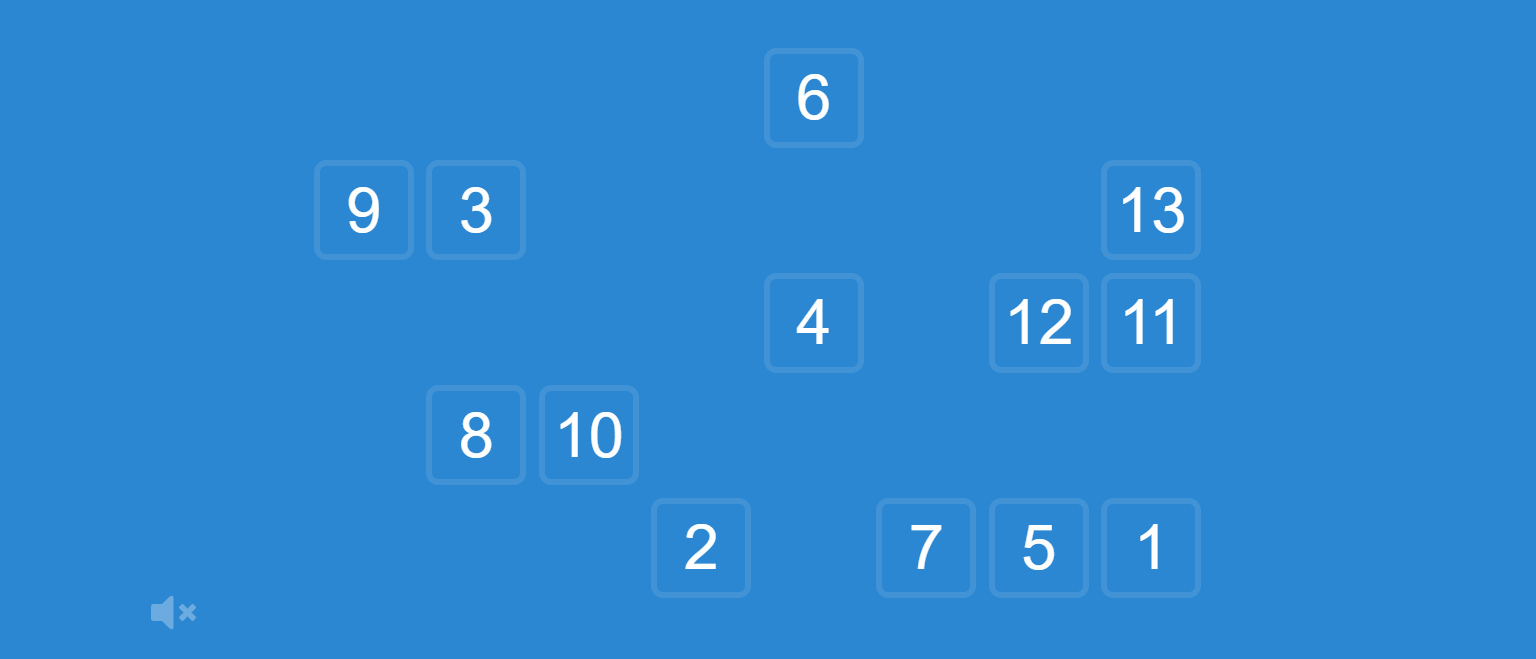
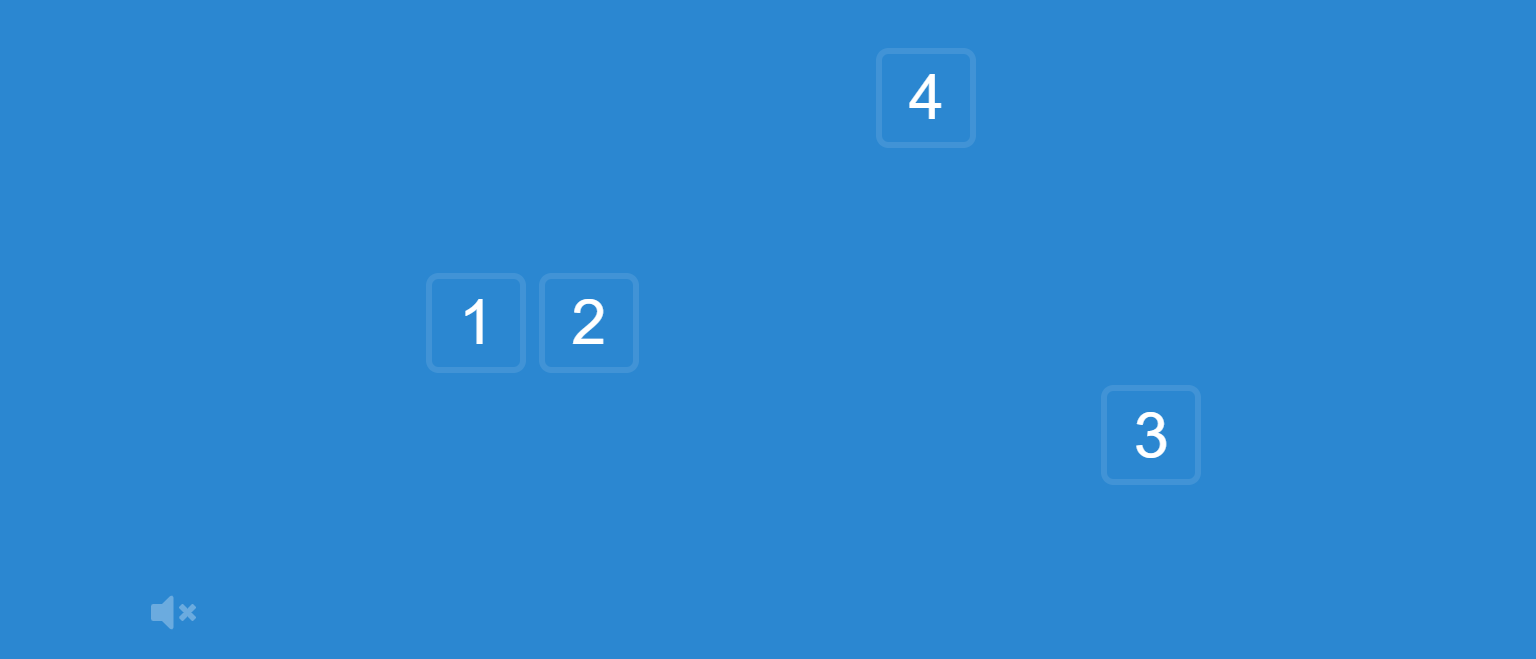
Chimp Test

diff --git a/Chimp Test/chimp.py b/Chimp Test/chimp.py
@@ -10,25 +10,33 @@ URL = "https://humanbenchmark.com/tests/chimp"
 MAX_LEVEL = 41
 
 BLUE = np.array([43, 135, 209])
-NUMBER_BORDER_COLOR = np.array([68, 152, 212])
-
 
 def open_human_benchmark():
     webbrowser.open(URL, 1, True)
     time.sleep(1)
 
 def start_game():
-    
     button_location = pyautogui.locateCenterOnScreen("StartButton.png", confidence=0.9)
-    for level in range(3, MAX_LEVEL):
-        time.sleep(0.5)
+    pyautogui.click(button_location)
+    game_size, x_border, y_border = determine_game_size()
+    screenshot = np.array(pyautogui.screenshot(region=game_size))
+    numbers = 0
+    numbers += remember_board(screenshot)
+    for level in range(4, MAX_LEVEL):
         pyautogui.click(button_location)
-        pyautogui.screenshot(f"level {level}.png")
-
-        positions = sorted(remember_board(), key=lambda x: x[0])
+        positions = []
+        screenshot = np.array(pyautogui.screenshot(region=game_size))
+        for i in range(1, numbers+1):
+            x, y, width, height = pyautogui.locateOnScreen(f"numbers/{i}.png", confidence=0.95)
+            positions.append((x+width//2, y+height//2))
+            screenshot[y-y_border-10:y-y_border+115, x-x_border-10:x-x_border+115] = BLUE
+        if(remember_board(screenshot)):
+            numbers+=1
+            x, y, width, height = pyautogui.locateOnScreen(f"numbers/{numbers}.png", confidence=0.95)
+            positions.append((x+width//2, y+height//2))
+        for pos in positions:
+            pyautogui.click(pos)
         
-        for x in positions:
-            pyautogui.click(x[1])
 
 def determine_game_size():
     screenWidth, screenHeight = pyautogui.size()
@@ -43,28 +51,29 @@ def determine_game_size():
                 game_upper_border = y
     return (screenWidth//10, int(game_lower_border), int(0.8*screenWidth), int(game_upper_border-game_lower_border)), screenWidth//10, game_lower_border
 
-def remember_board():
-    positions = []
-    game_size, x_border, y_border = determine_game_size()
-    screenshot = np.array(pyautogui.screenshot("level.png", region=game_size))
-    for y in range(len(screenshot)-100):
-        for x in range(len(screenshot[y])-100):
+def remember_board(screenshot):
+    new_numbers = 0
+    for y in range(len(screenshot)-110):
+        for x in range(len(screenshot[y])-110):
             if np.array_equal(screenshot[y][x], BLUE):
                 continue
-            image = screenshot[y:y+100, x:x+100]
+            image = screenshot[y:y+110, x:x+110]
             cv2.imwrite(f"number.png", image)
             image = cv2.imread(f"number.png", cv2.IMREAD_GRAYSCALE)
             _, image = cv2.threshold(image, 200, 255, cv2.THRESH_BINARY)
             reader = easyocr.Reader(["en"])
             data = reader.readtext(image, allowlist="1234567890", detail=0)
-            screenshot[y-10:y+100, x-10:x+100] = BLUE
-            print(data)
+            print("NEW NUMBER DETECTED:", data)
+            number = screenshot[y-10:y+110, x-10:x+110]
+            number = cv2.cvtColor(number, cv2.COLOR_RGB2BGR)
+            new_numbers+=1
             try:
-                positions.append([int(data[0]), (x+x_border+50, y+y_border+50)])
+                cv2.imwrite(f"numbers/{data[0]}.png", number)
             except:
-                positions.append([7, (x+x_border+50, y+y_border+50)])
-    print()
-    return positions
+                cv2.imwrite(f"numbers/7.png", number)
+            screenshot[y-10:y+110, x-10:x+110] = BLUE
+    print("BOARD REMEMBERED")
+    return new_numbers
 
 open_human_benchmark()
 start_game()
